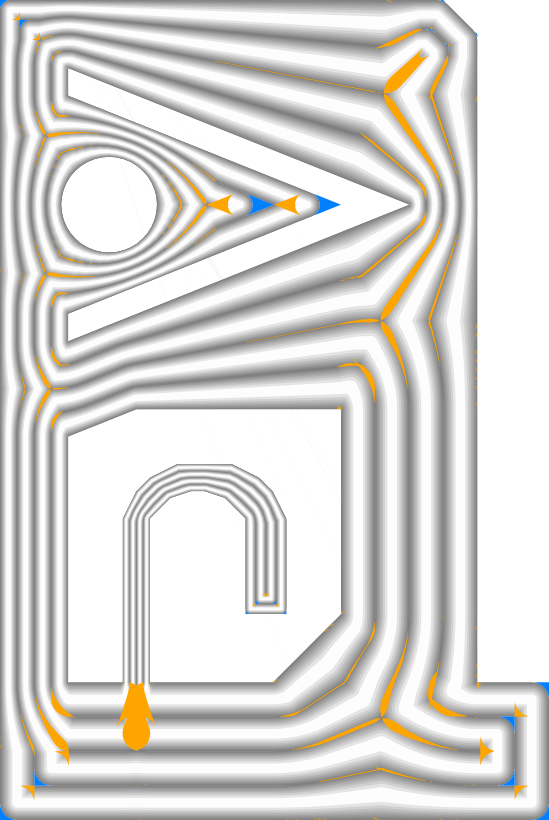
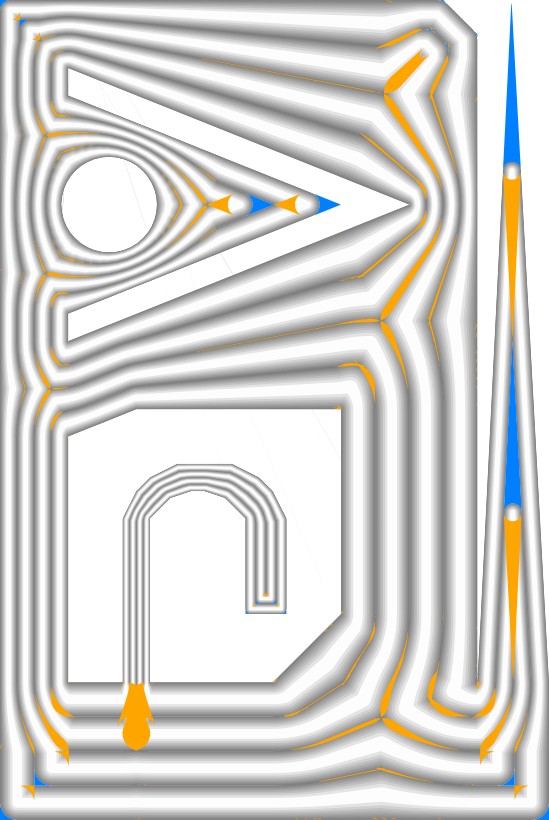
redo gMAT example images with new pointy wedge bit, and use N=2 for inward distributed

Changed region(s): [[0.867, 0.0, 1.0, 0.9146]]

diff --git a/6_validation.tex b/6_validation.tex
@@ -65,7 +65,7 @@ This is lower compared to the uniform scheme, which results in \SI{1.2}{\percent
 \begin{subfigure}{\figwidth}\centering
 \includegraphics[width=\columnwidth]{sources-validation-gMAT-example-TEST-InwardDistributed-accuracy.png}
 \includegraphics[width=\columnwidth]{sources-validation-gMAT-example-TEST-InwardDistributed-widths.png}
-\caption{Inward}\label{TEST_InwardDistributed_accuracy}
+\caption{Inward \revise{}{($N=2$)}}\label{TEST_InwardDistributed_accuracy}
 \end{subfigure}
 \begin{subfigure}{.04\columnwidth}\centering
 \vspace{4.7cm}
@@ -78,6 +78,7 @@ overfill in orange,
 underfill in azure,
 narrow beads in blue
 and wide beads in red.
+\revise{New shape contains pointy wedge to see impact on minimal feature size}{In order to distinguish clearly from the Distributed scheme the Inward is limited to $N=2$.}
 }
 \label{visualized_accuracy}
 \end{figure*}
